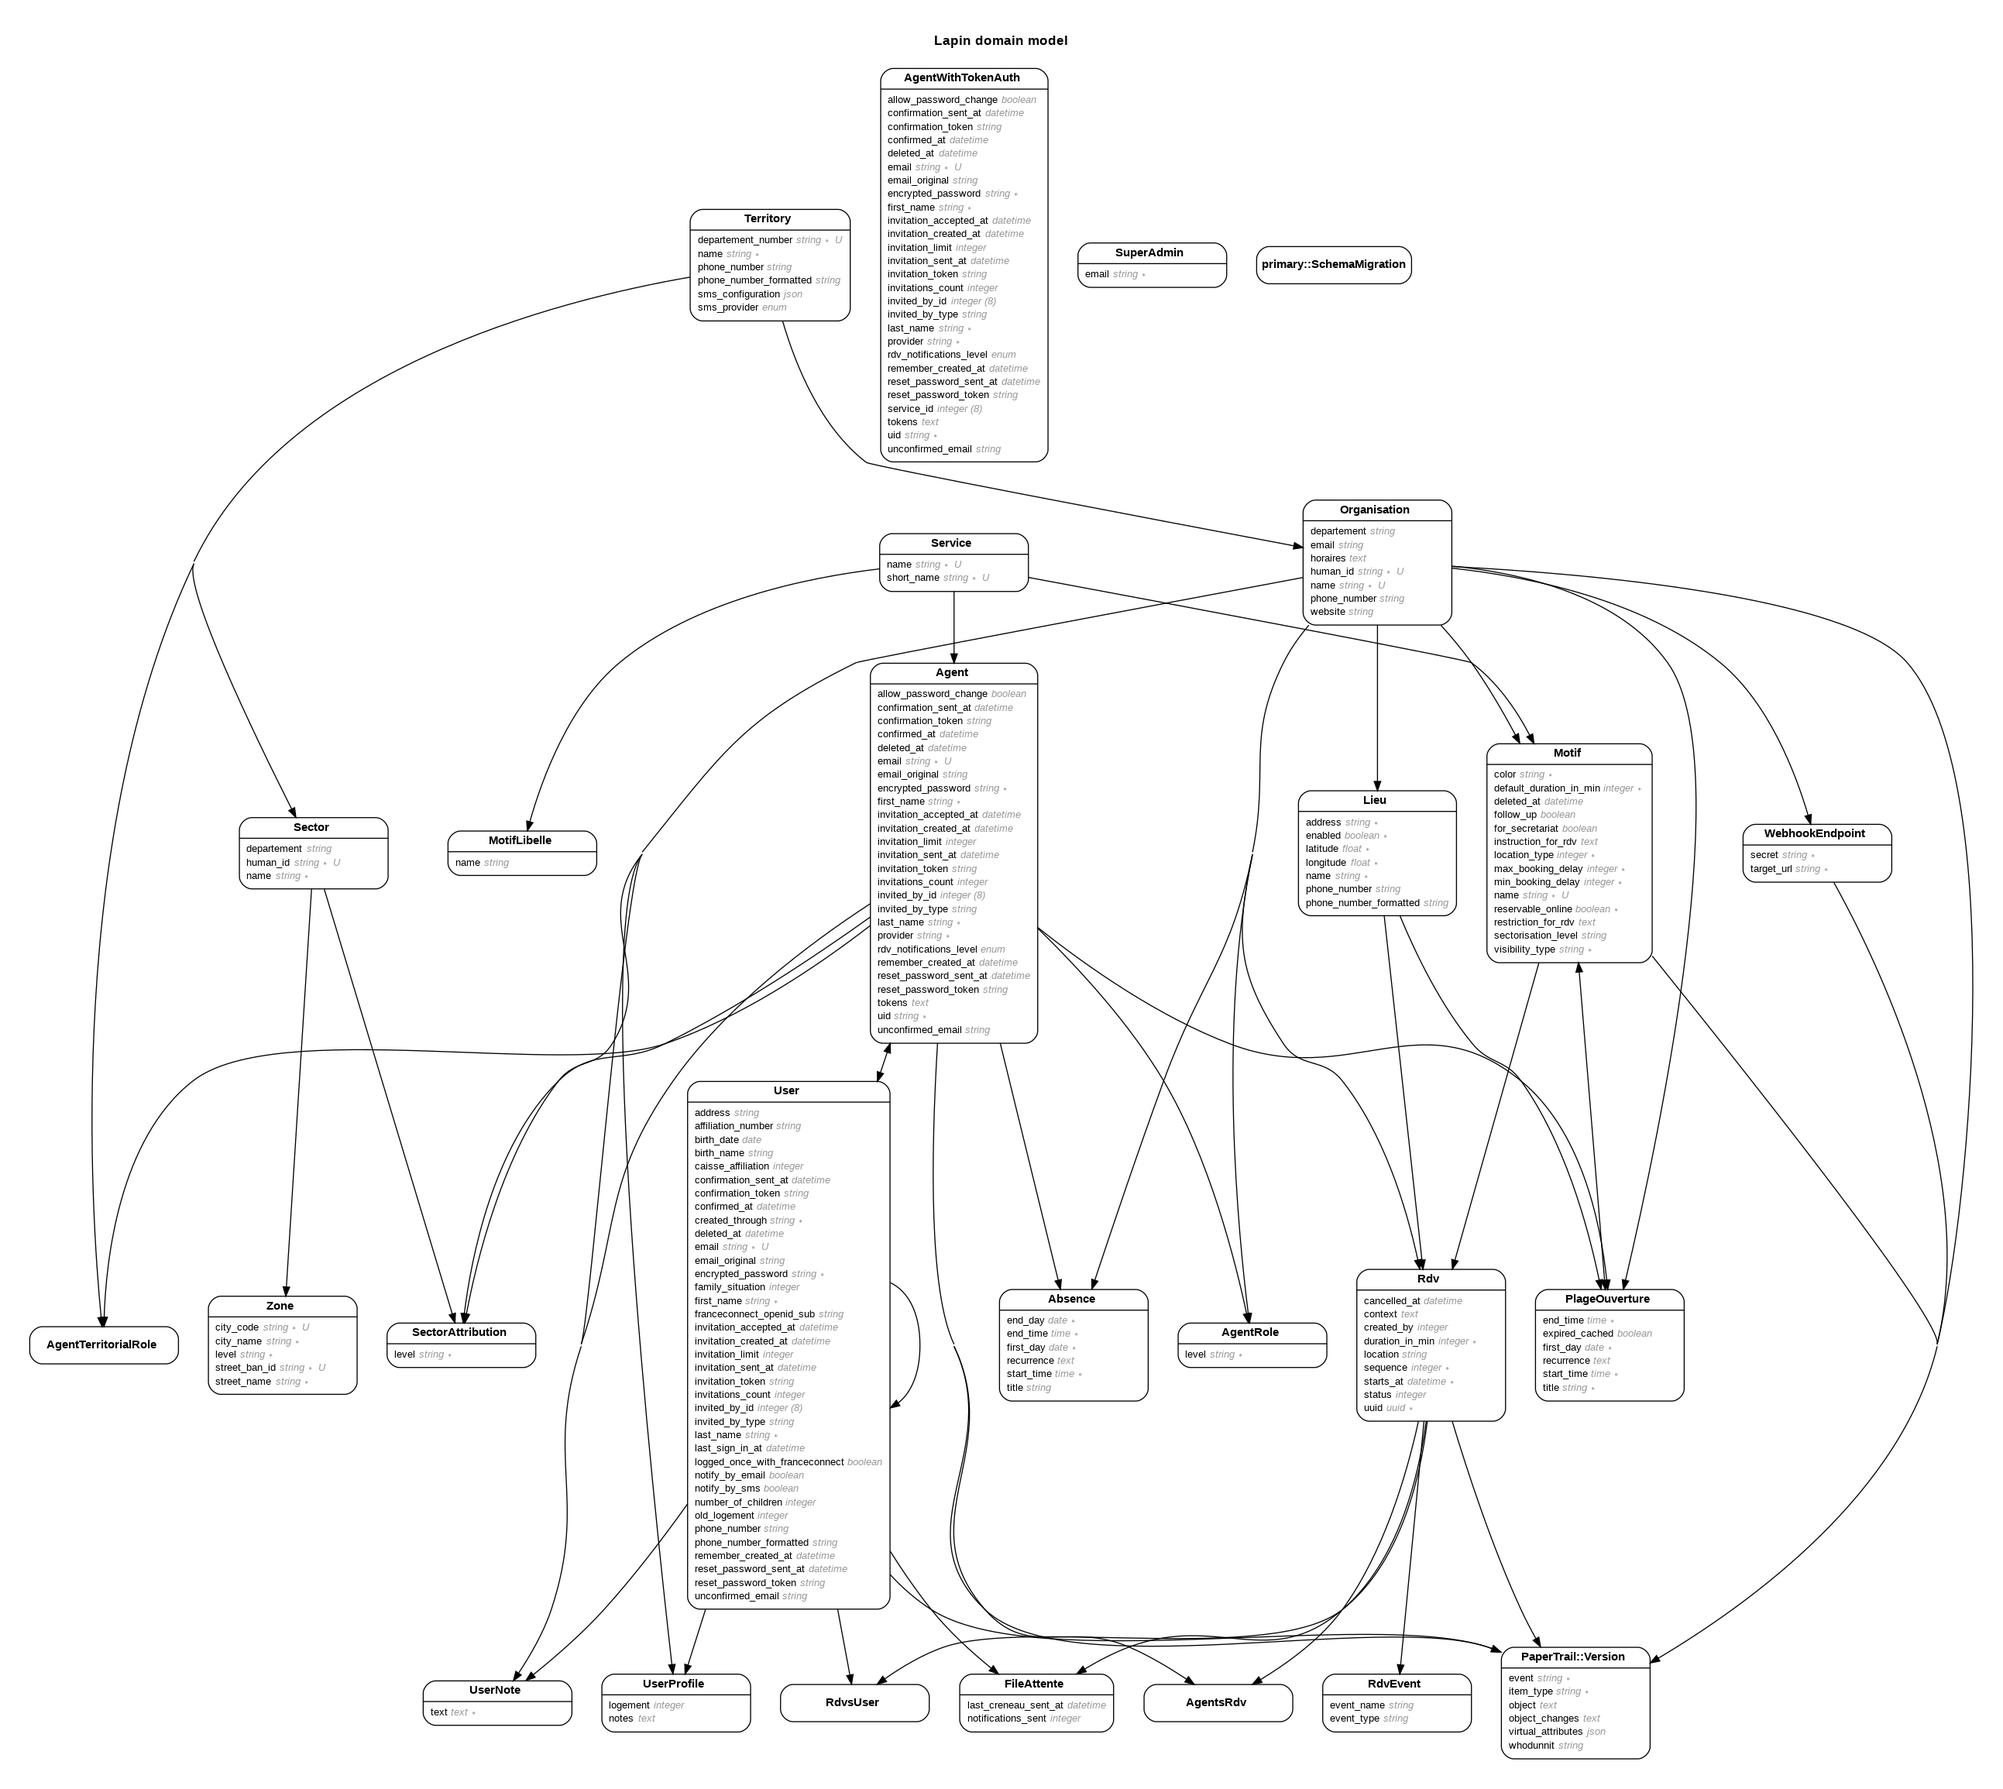
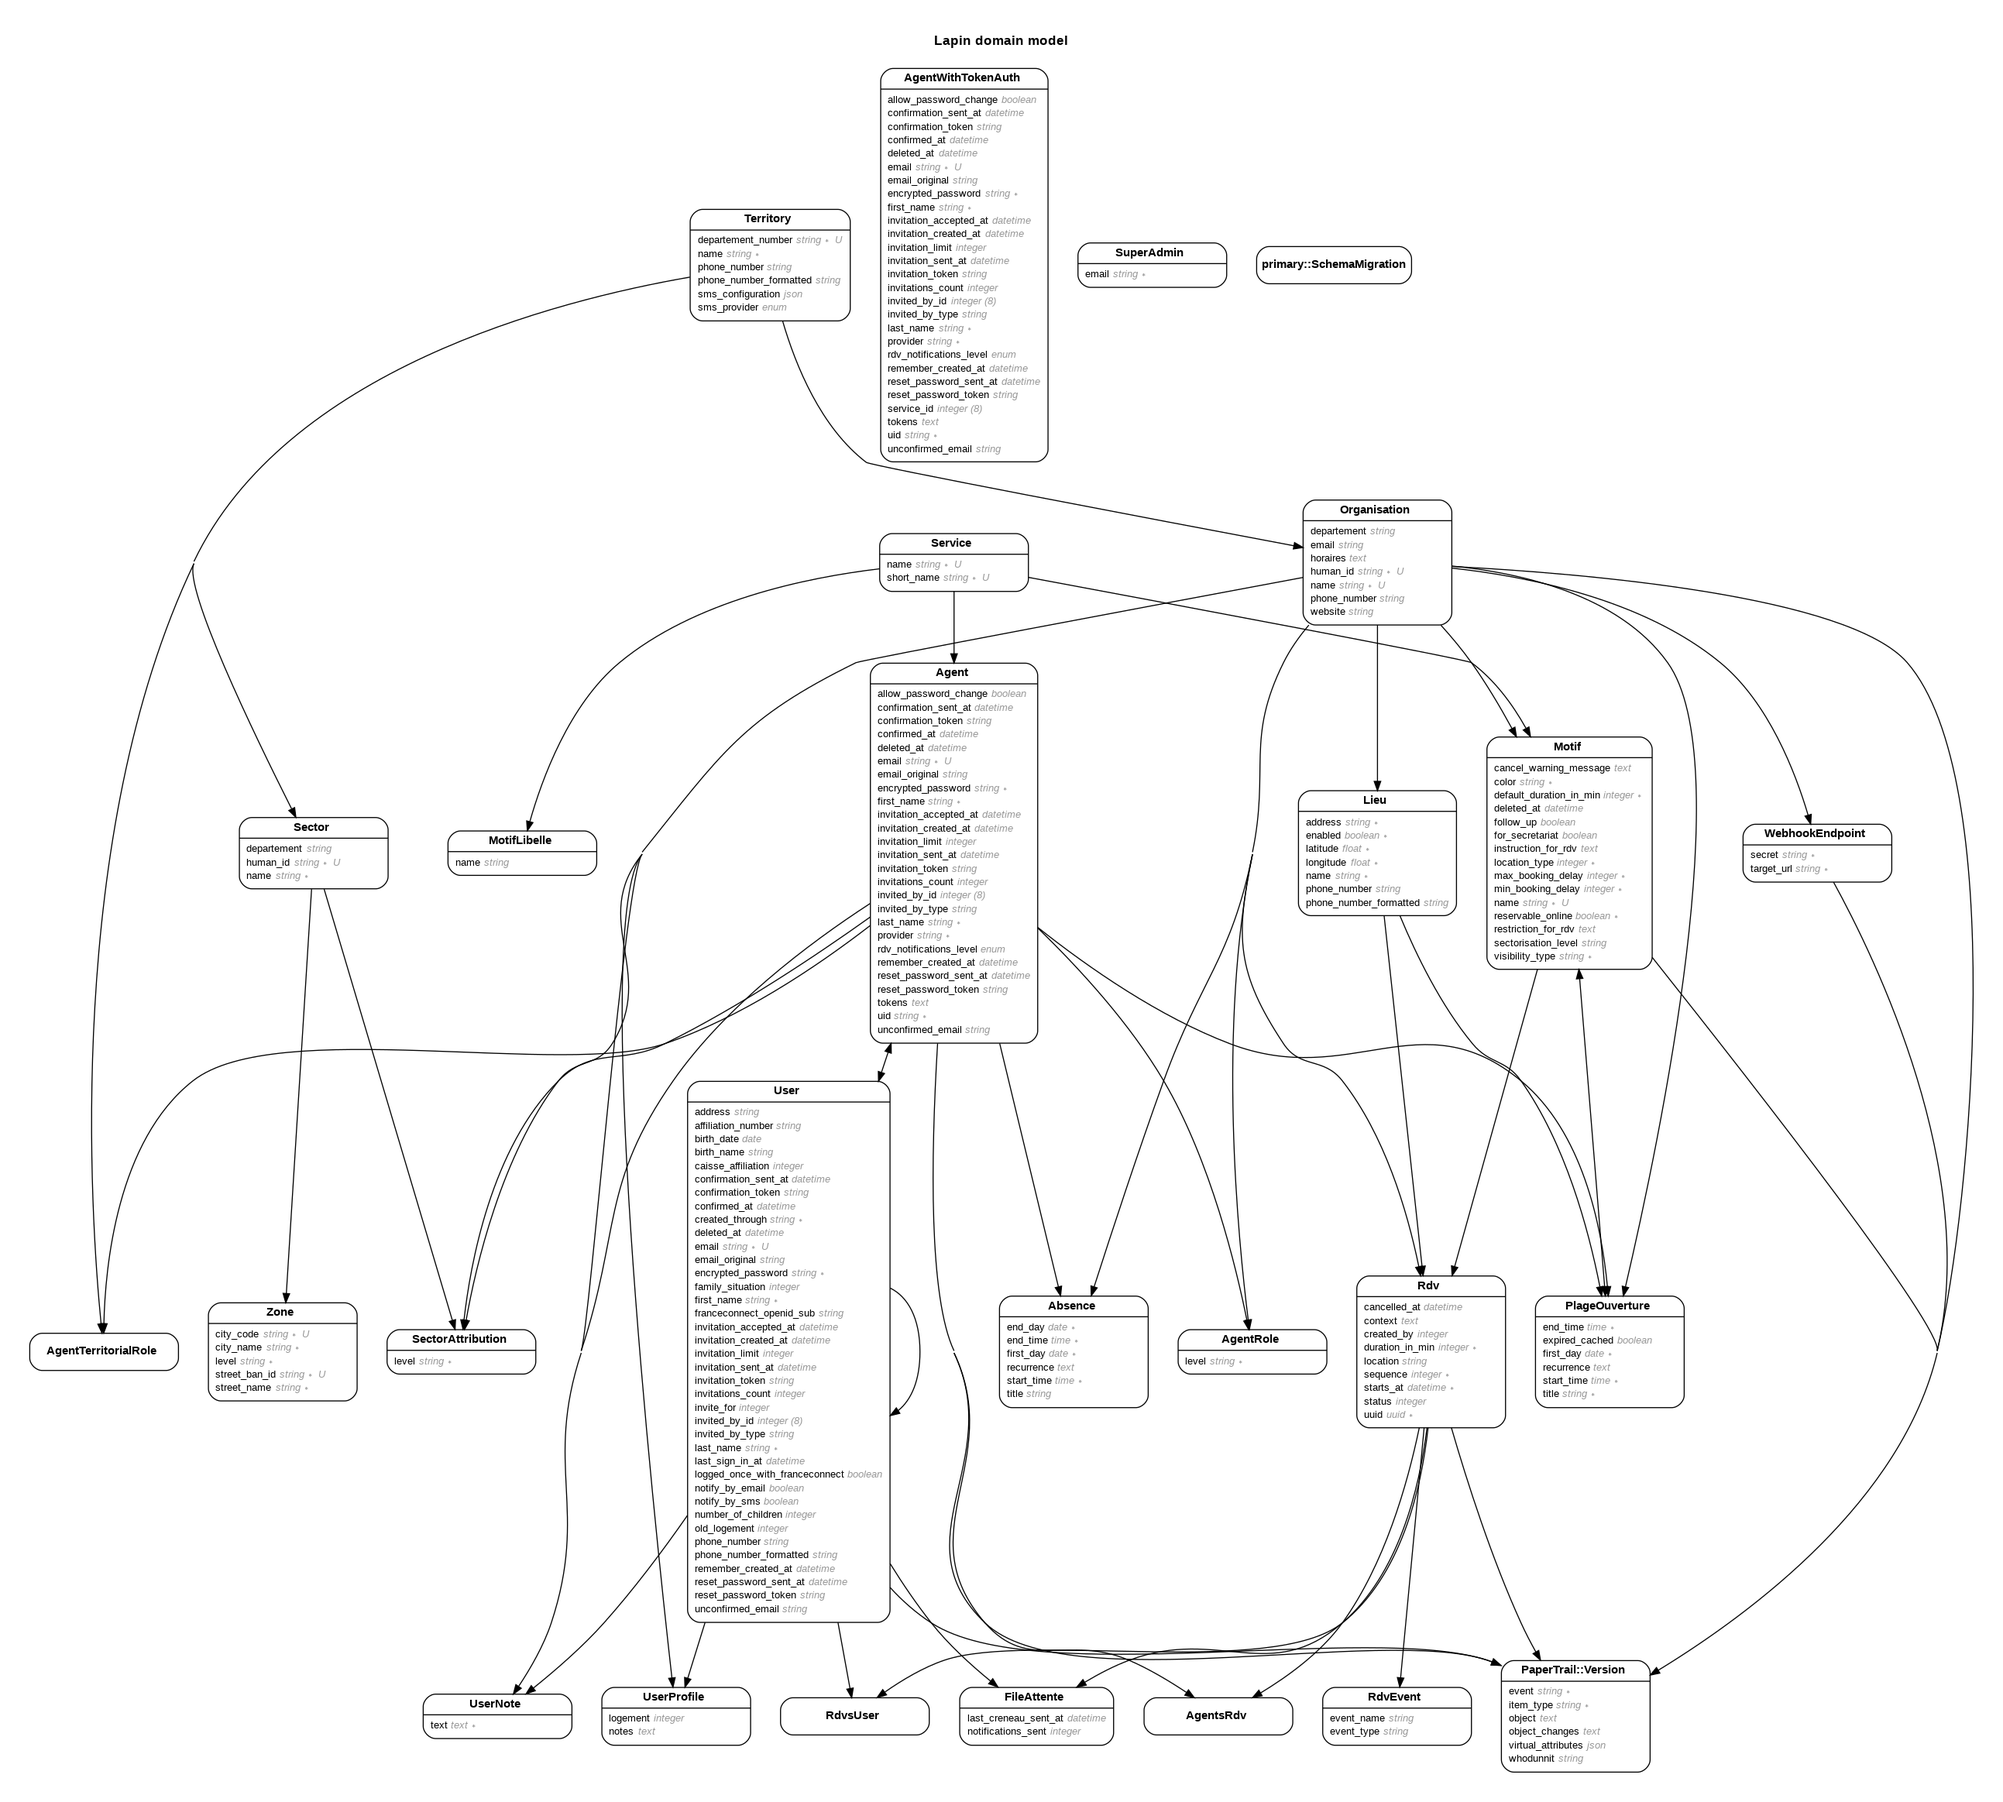
Possibilité de personaliser le message d'avertissement avant annulation d'un rdv

diff --git a/db/schema.rb b/db/schema.rb
@@ -10,7 +10,7 @@
 #
 # It's strongly recommended that you check this file into your version control system.
 
-ActiveRecord::Schema.define(version: 2021_05_11_111514) do
+ActiveRecord::Schema.define(version: 2021_06_07_154248) do
 
   # These are extensions that must be enabled in order to support this database
   enable_extension "plpgsql"
@@ -217,6 +217,7 @@ ActiveRecord::Schema.define(version: 2021_05_11_111514) do
     t.boolean "follow_up", default: false
     t.string "visibility_type", default: "visible_and_notified", null: false
     t.string "sectorisation_level", default: "departement"
+    t.text "cancel_warning_message"
     t.index ["deleted_at"], name: "index_motifs_on_deleted_at"
     t.index ["name", "organisation_id", "location_type", "service_id"], name: "index_motifs_on_name_scoped", unique: true, where: "(deleted_at IS NULL)"
     t.index ["organisation_id"], name: "index_motifs_on_organisation_id"
@@ -412,6 +413,7 @@ ActiveRecord::Schema.define(version: 2021_05_11_111514) do
     t.string "franceconnect_openid_sub"
     t.string "created_through"
     t.boolean "logged_once_with_franceconnect"
+    t.integer "invite_for"
     t.index ["confirmation_token"], name: "index_users_on_confirmation_token", unique: true
     t.index ["email"], name: "index_users_on_email", unique: true, where: "(email IS NOT NULL)"
     t.index ["invitation_token"], name: "index_users_on_invitation_token", unique: true

diff --git a/app/dashboards/motif_dashboard.rb b/app/dashboards/motif_dashboard.rb
@@ -17,6 +17,7 @@ class MotifDashboard < Administrate::BaseDashboard
     color: Field::String,
     restriction_for_rdv: Field::Text,
     instruction_for_rdv: Field::Text,
+    cancel_warning_message: Field::Text,
     reservable_online: Field::Boolean,
     location_type: EnumField,
     for_secretariat: Field::Boolean,
@@ -54,6 +55,7 @@ class MotifDashboard < Administrate::BaseDashboard
     for_secretariat
     restriction_for_rdv
     instruction_for_rdv
+    cancel_warning_message
     default_duration_in_min
     min_booking_delay
     max_booking_delay
@@ -80,6 +82,7 @@ class MotifDashboard < Administrate::BaseDashboard
     visibility_type
     restriction_for_rdv
     instruction_for_rdv
+    cancel_warning_message
     deleted_at
   ].freeze
 

diff --git a/app/controllers/admin/motifs_controller.rb b/app/controllers/admin/motifs_controller.rb
@@ -85,8 +85,7 @@ class Admin::MotifsController < AgentAuthController
 
   def motif_params
     params.require(:motif)
-      .permit(:name,
-              :service_id,
+      .permit(:name, :service_id,
               :color,
               :default_duration_in_min,
               :reservable_online,
@@ -96,6 +95,7 @@ class Admin::MotifsController < AgentAuthController
               :visibility_type,
               :restriction_for_rdv,
               :instruction_for_rdv,
+              :cancel_warning_message,
               :for_secretariat,
               :follow_up,
               :sectorisation_level)

diff --git a/app/helpers/motifs_helper.rb b/app/helpers/motifs_helper.rb
@@ -67,4 +67,8 @@ module MotifsHelper
     tag.div(tag.div(legend, class: "col-md-4 text-bold text-right") +
         tag.div(value, class: "col-md-8"), class: "row")
   end
+
+  def cancel_warning_message
+    cancel_warning_message.present ? cancel_warning_message : "Êtes-vous sûr de vouloir annuler ce RDV ?"
+  end
 end

diff --git a/db/migrate/20210607154248_add_cancel_warning_message_to_motif.rb b/db/migrate/20210607154248_add_cancel_warning_message_to_motif.rb
@@ -1,0 +1,5 @@
+class AddCancelWarningMessageToMotif < ActiveRecord::Migration[6.0]
+  def change
+    add_column :motifs, :cancel_warning_message, :text
+  end
+end
